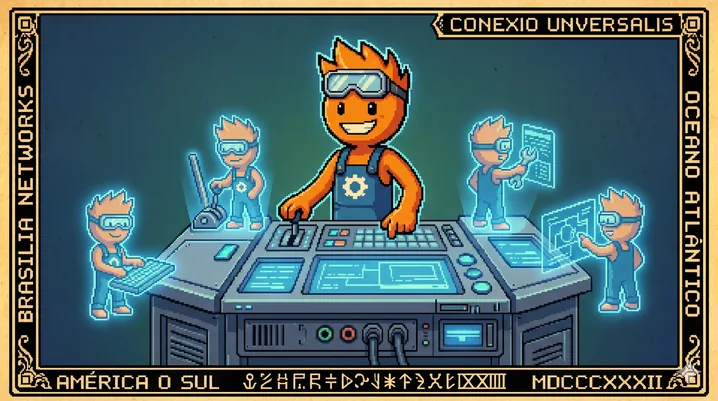
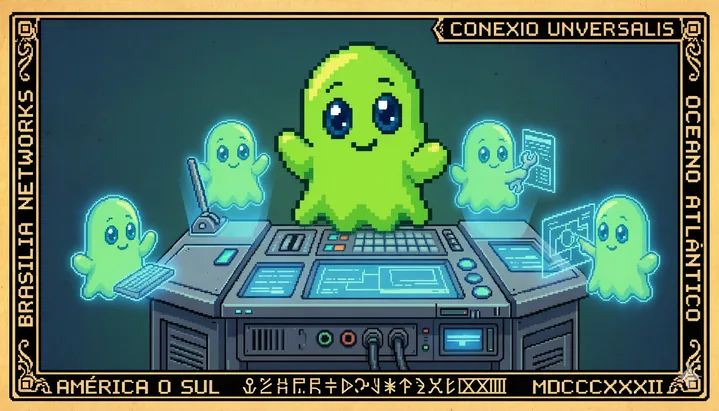
fix: mascote Gaspar no blog, contraste dos diagramas e <hr> do artigo 125
- Atualiza a identidade visual do mascote em .agents/AGENTS.md
- Troca "Professor Mascote" pelo Gaspar em 9 artigos (texto e ilustrações pixel art)
- Escopa a cor do texto de reserva dos diagramas: cartões claros x escuros
- Corrige a <hr> malformada do artigo 125

diff --git a/docs/articles/2027_02_10_article_121.html b/docs/articles/2027_02_10_article_121.html
@@ -123,15 +123,15 @@
 			O cordel acima ilustra a dura realidade das redes de lojas brasileiras que confiam cegamente na estabilidade da nuvem centralizada. Abaixo, analisamos a complexidade técnica e a alternativa da autonomia de borda.
 		</p>
 
-		<!-- SEGUNDA IMAGEM: A cara do Mascote (Professor Técnico) -->
+		<!-- SEGUNDA IMAGEM: Gaspar, o mascote oficial da Cara Core -->
 		<figure class="mascot-intro-frame" style="text-align: center; margin: 2rem 0;">
 			<picture>
 			    <source type="image/webp" media="(max-width: 680px)" srcset="assets/img/2027_02_10_article_121_02_720.webp">
 			    <source type="image/webp" srcset="assets/img/2027_02_10_article_121_02_1600.webp">
-			    <img src="assets/img/2027_02_10_article_121_02.png" alt="Professor Mascote ignorando tempestade de orquestração" class="mascot-avatar" style="max-width: min(180px, 100%); border-radius: 50%; box-shadow: 0 4px 15px rgba(0,0,0,0.15);" />
+			    <img src="assets/img/2027_02_10_article_121_02.png" alt="Gaspar ignorando tempestade de orquestração" class="mascot-avatar" style="max-width: min(180px, 100%); border-radius: 50%; box-shadow: 0 4px 15px rgba(0,0,0,0.15);" />
 			</picture>
 			<figcaption style="font-size: 0.85rem; color: #666; font-style: italic; margin-top: 0.5rem;">
-				Professor Mascote assume o controle: "No mundo físico, distribuições de Kubernetes voltadas para a borda podem consumir mais de 300MB de RAM por nó apenas para manter de pé a infraestrutura de controle local. Uma instância autônoma local não gasta nada e faz o trabalho."
+				Gaspar assume o controle: "No mundo físico, distribuições de Kubernetes voltadas para a borda podem consumir mais de 300MB de RAM por nó apenas para manter de pé a infraestrutura de controle local. Uma instância autônoma local não gasta nada e faz o trabalho."
 			</figcaption>
 		</figure>
 

diff --git a/docs/articles/2027_03_26_article_125.html b/docs/articles/2027_03_26_article_125.html
@@ -119,19 +119,19 @@
 			E o envio da fila depois é com calma gerido.</em>
 		</div>
 
-		<!-- SEGUNDA IMAGEM: A cara do Mascote (Professor Técnico) -->
+		<!-- SEGUNDA IMAGEM: Gaspar, o mascote oficial da Cara Core -->
 		<figure class="mascot-intro-frame" style="text-align: center; margin: 2rem 0;">
 			<picture>
 			    <source type="image/webp" media="(max-width: 680px)" srcset="assets/img/2027_03_26_article_125_02_720.webp">
 			    <source type="image/webp" srcset="assets/img/2027_03_26_article_125_02_1600.webp">
-			    <img src="assets/img/2027_03_26_article_125_02.png" alt="Professor Mascote guardando ticket em cofre offline" class="mascot-avatar" style="max-width: min(180px, 100%); border-radius: 50%; box-shadow: 0 4px 15px rgba(0,0,0,0.15);" />
+			    <img src="assets/img/2027_03_26_article_125_02.png" alt="Gaspar guardando ticket em cofre offline" class="mascot-avatar" style="max-width: min(180px, 100%); border-radius: 50%; box-shadow: 0 4px 15px rgba(0,0,0,0.15);" />
 			</picture>
 			<figcaption style="font-size: 0.85rem; color: #666; font-style: italic; margin-top: 0.5rem;">
-				Professor Mascote assume o controle: "Não tente enviar a venda para a nuvem no fluxo principal do checkout. Grave localmente na tabela de Outbox e use um scheduler com backoff para esvaziar a fila em segundo plano."
+				Gaspar assume o controle: "Não tente enviar a venda para a nuvem no fluxo principal do checkout. Grave localmente na tabela de Outbox e use um scheduler com backoff para esvaziar a fila em segundo plano."
 			</figcaption>
 		</figure>
 
-		<hr style="border: 0; border-top: 1px dashe		<hr style="border: 0; border-top: 1px dashed #ccc; margin: 2rem 0;" />
+		<hr style="border: 0; border-top: 1px dashed #ccc; margin: 2rem 0;" />
 
 		<h2>O que é Transmissão Resiliente?</h2>
 		<p>

diff --git a/docs/articles/2027_05_06_article_128.html b/docs/articles/2027_05_06_article_128.html
@@ -119,15 +119,15 @@
 			E fazem a engrenagem rodar com a força comprovada.</em>
 		</div>
 
-		<!-- SEGUNDA IMAGEM: A cara do Mascote (Professor Técnico) -->
+		<!-- SEGUNDA IMAGEM: Gaspar, o mascote oficial da Cara Core -->
 		<figure class="mascot-intro-frame" style="text-align: center; margin: 2rem 0;">
 			<picture>
 			    <source type="image/webp" media="(max-width: 680px)" srcset="assets/img/2027_05_06_article_128_02_720.webp">
 			    <source type="image/webp" srcset="assets/img/2027_05_06_article_128_02_1600.webp">
-			    <img src="assets/img/2027_05_06_article_128_02.png" alt="Professor Mascote na biblioteca contemplando o horizonte" class="mascot-avatar" style="max-width: min(180px, 100%); border-radius: 50%; box-shadow: 0 4px 15px rgba(0,0,0,0.15);" />
+			    <img src="assets/img/2027_05_06_article_128_02.png" alt="Gaspar na biblioteca contemplando o horizonte" class="mascot-avatar" style="max-width: min(180px, 100%); border-radius: 50%; box-shadow: 0 4px 15px rgba(0,0,0,0.15);" />
 			</picture>
 			<figcaption style="font-size: 0.85rem; color: #666; font-style: italic; margin-top: 0.5rem;">
-				Professor Mascote assume o controle: "A engenharia real de software não é sobre adotar a última biblioteca da moda lançada ontem no Twitter. É sobre combinar com elegância as tecnologias mais simples, maduras e consolidadas há mais de dez anos para resolver problemas de negócios reais."
+				Gaspar assume o controle: "A engenharia real de software não é sobre adotar a última biblioteca da moda lançada ontem no Twitter. É sobre combinar com elegância as tecnologias mais simples, maduras e consolidadas há mais de dez anos para resolver problemas de negócios reais."
 			</figcaption>
 		</figure>
 

diff --git a/docs/articles/2027_02_20_article_122.html b/docs/articles/2027_02_20_article_122.html
@@ -119,15 +119,15 @@
 			E o caixa passa o produto sem travar a maquininha barata.</em>
 		</div>
 
-		<!-- SEGUNDA IMAGEM: A cara do Mascote (Professor Técnico) -->
+		<!-- SEGUNDA IMAGEM: Gaspar, o mascote oficial da Cara Core -->
 		<figure class="mascot-intro-frame" style="text-align: center; margin: 2rem 0;">
 			<picture>
 			    <source type="image/webp" media="(max-width: 680px)" srcset="assets/img/2027_02_20_article_122_02_720.webp">
 			    <source type="image/webp" srcset="assets/img/2027_02_20_article_122_02_1600.webp">
-			    <img src="assets/img/2027_02_20_article_122_02.png" alt="Professor Mascote com picareta protegendo cofre SQLite" class="mascot-avatar" style="max-width: min(180px, 100%); border-radius: 50%; box-shadow: 0 4px 15px rgba(0,0,0,0.15);" />
+			    <img src="assets/img/2027_02_20_article_122_02.png" alt="Gaspar com picareta protegendo cofre SQLite" class="mascot-avatar" style="max-width: min(180px, 100%); border-radius: 50%; box-shadow: 0 4px 15px rgba(0,0,0,0.15);" />
 			</picture>
 			<figcaption style="font-size: 0.85rem; color: #666; font-style: italic; margin-top: 0.5rem;">
-				Professor Mascote assume o controle: "Você não precisa instalar um PostgreSQL inteiro localmente na máquina do caixa só para ter segurança ACID. Um arquivo de banco tunado em WAL faz leituras em microssegundos."
+				Gaspar assume o controle: "Você não precisa instalar um PostgreSQL inteiro localmente na máquina do caixa só para ter segurança ACID. Um arquivo de banco tunado em WAL faz leituras em microssegundos."
 			</figcaption>
 		</figure>
 

diff --git a/docs/articles/2027_03_16_article_124.html b/docs/articles/2027_03_16_article_124.html
@@ -119,15 +119,15 @@
 			E a CPU de dois núcleos trabalha com muito orgulho.</em>
 		</div>
 
-		<!-- SEGUNDA IMAGEM: A cara do Mascote (Professor Técnico) -->
+		<!-- SEGUNDA IMAGEM: Gaspar, o mascote oficial da Cara Core -->
 		<figure class="mascot-intro-frame" style="text-align: center; margin: 2rem 0;">
 			<picture>
 			    <source type="image/webp" media="(max-width: 680px)" srcset="assets/img/2027_03_16_article_124_02_720.webp">
 			    <source type="image/webp" srcset="assets/img/2027_03_16_article_124_02_1600.webp">
-			    <img src="assets/img/2027_03_16_article_124_02.png" alt="Professor Mascote operando console com clones holográficos" class="mascot-avatar" style="max-width: min(180px, 100%); border-radius: 50%; box-shadow: 0 4px 15px rgba(0,0,0,0.15);" />
+			    <img src="assets/img/2027_03_16_article_124_02.png" alt="Gaspar operando console com clones holográficos" class="mascot-avatar" style="max-width: min(180px, 100%); border-radius: 50%; box-shadow: 0 4px 15px rgba(0,0,0,0.15);" />
 			</picture>
 			<figcaption style="font-size: 0.85rem; color: #666; font-style: italic; margin-top: 0.5rem;">
-				Professor Mascote assume o controle: "Não bloqueie a thread principal do caixa esperando a impressora responder via USB. Threads virtuais fazem esse bloqueio virar poeira, sem gastar memória do sistema."
+				Gaspar assume o controle: "Não bloqueie a thread principal do caixa esperando a impressora responder via USB. Threads virtuais fazem esse bloqueio virar poeira, sem gastar memória do sistema."
 			</figcaption>
 		</figure>
 

diff --git a/docs/articles/2027_04_06_article_126.html b/docs/articles/2027_04_06_article_126.html
@@ -119,15 +119,15 @@
 			E a fila de processamento em segundo plano se produz!</em>
 		</div>
 
-		<!-- SEGUNDA IMAGEM: A cara do Mascote (Professor Técnico) -->
+		<!-- SEGUNDA IMAGEM: Gaspar, o mascote oficial da Cara Core -->
 		<figure class="mascot-intro-frame" style="text-align: center; margin: 2rem 0;">
 			<picture>
 			    <source type="image/webp" media="(max-width: 680px)" srcset="assets/img/2027_04_06_article_126_02_720.webp">
 			    <source type="image/webp" srcset="assets/img/2027_04_06_article_126_02_1600.webp">
-			    <img src="assets/img/2027_04_06_article_126_02.png" alt="Professor Mascote como guarda na entrada do portal" class="mascot-avatar" style="max-width: min(180px, 100%); border-radius: 50%; box-shadow: 0 4px 15px rgba(0,0,0,0.15);" />
+			    <img src="assets/img/2027_04_06_article_126_02.png" alt="Gaspar como guarda na entrada do portal" class="mascot-avatar" style="max-width: min(180px, 100%); border-radius: 50%; box-shadow: 0 4px 15px rgba(0,0,0,0.15);" />
 			</picture>
 			<figcaption style="font-size: 0.85rem; color: #666; font-style: italic; margin-top: 0.5rem;">
-				Professor Mascote assume o controle: "Na nuvem central, receba o JSON, grave numa tabela de auditoria rápida e responda 202. Não tente dar baixa em estoque ou rodar relatórios BI na mesma transação HTTP."
+				Gaspar assume o controle: "Na nuvem central, receba o JSON, grave numa tabela de auditoria rápida e responda 202. Não tente dar baixa em estoque ou rodar relatórios BI na mesma transação HTTP."
 			</figcaption>
 		</figure>
 

diff --git a/docs/articles/2027_03_06_article_123.html b/docs/articles/2027_03_06_article_123.html
@@ -119,15 +119,15 @@
 			E o código ficou leve, sem tempero e sem molho.</em>
 		</div>
 
-		<!-- SEGUNDA IMAGEM: A cara do Mascote (Professor Técnico) -->
+		<!-- SEGUNDA IMAGEM: Gaspar, o mascote oficial da Cara Core -->
 		<figure class="mascot-intro-frame" style="text-align: center; margin: 2rem 0;">
 			<picture>
 			    <source type="image/webp" media="(max-width: 680px)" srcset="assets/img/2027_03_06_article_123_02_720.webp">
 			    <source type="image/webp" srcset="assets/img/2027_03_06_article_123_02_1600.webp">
-			    <img src="assets/img/2027_03_06_article_123_02.png" alt="Professor Mascote descartando frameworks JS no lixo" class="mascot-avatar" style="max-width: min(180px, 100%); border-radius: 50%; box-shadow: 0 4px 15px rgba(0,0,0,0.15);" />
+			    <img src="assets/img/2027_03_06_article_123_02.png" alt="Gaspar descartando frameworks JS no lixo" class="mascot-avatar" style="max-width: min(180px, 100%); border-radius: 50%; box-shadow: 0 4px 15px rgba(0,0,0,0.15);" />
 			</picture>
 			<figcaption style="font-size: 0.85rem; color: #666; font-style: italic; margin-top: 0.5rem;">
-				Professor Mascote assume o controle: "Você não precisa de um empacotador de build pesado e dezenas de rotas no cliente apenas para ler itens e somar o subtotal. Use HTML nativo gerado pelo servidor local."
+				Gaspar assume o controle: "Você não precisa de um empacotador de build pesado e dezenas de rotas no cliente apenas para ler itens e somar o subtotal. Use HTML nativo gerado pelo servidor local."
 			</figcaption>
 		</figure>
 

diff --git a/docs/articles/2027_04_16_article_127.html b/docs/articles/2027_04_16_article_127.html
@@ -119,15 +119,15 @@
 			E o suporte age rápido na loja da cidade.</em>
 		</div>
 
-		<!-- SEGUNDA IMAGEM: A cara do Mascote (Professor Técnico) -->
+		<!-- SEGUNDA IMAGEM: Gaspar, o mascote oficial da Cara Core -->
 		<figure class="mascot-intro-frame" style="text-align: center; margin: 2rem 0;">
 			<picture>
 			    <source type="image/webp" media="(max-width: 680px)" srcset="assets/img/2027_04_16_article_127_02_720.webp">
 			    <source type="image/webp" srcset="assets/img/2027_04_16_article_127_02_1600.webp">
-			    <img src="assets/img/2027_04_16_article_127_02.png" alt="Professor Mascote auscultando cabo com estetoscópio" class="mascot-avatar" style="max-width: min(180px, 100%); border-radius: 50%; box-shadow: 0 4px 15px rgba(0,0,0,0.15);" />
+			    <img src="assets/img/2027_04_16_article_127_02.png" alt="Gaspar auscultando cabo com estetoscópio" class="mascot-avatar" style="max-width: min(180px, 100%); border-radius: 50%; box-shadow: 0 4px 15px rgba(0,0,0,0.15);" />
 			</picture>
 			<figcaption style="font-size: 0.85rem; color: #666; font-style: italic; margin-top: 0.5rem;">
-				Professor Mascote assume o controle: "Não tente coletar métricas pesadas a cada segundo. Monitore a saúde do caixa medindo o acúmulo de tarefas na fila do SQLite local: se a fila cresce, a internet caiu."
+				Gaspar assume o controle: "Não tente coletar métricas pesadas a cada segundo. Monitore a saúde do caixa medindo o acúmulo de tarefas na fila do SQLite local: se a fila cresce, a internet caiu."
 			</figcaption>
 		</figure>
 

diff --git a/docs/articles/2027_01_30_article_120.html b/docs/articles/2027_01_30_article_120.html
@@ -123,15 +123,15 @@
 			Esta caricatura lírica reflete um drama real vivido diariamente nos balcões de comércio de todo o país. Abaixo, entramos no detalhe da física operacional do hardware de varejo.
 		</p>
 
-		<!-- SEGUNDA IMAGEM: A cara do Mascote (Professor Técnico) -->
+		<!-- SEGUNDA IMAGEM: Gaspar, o mascote oficial da Cara Core -->
 		<figure class="mascot-intro-frame" style="text-align: center; margin: 2rem 0;">
 			<picture>
 			    <source type="image/webp" media="(max-width: 680px)" srcset="assets/img/2027_01_30_article_120_02_720.webp">
 			    <source type="image/webp" srcset="assets/img/2027_01_30_article_120_02_1600.webp">
-			    <img src="assets/img/2027_01_30_article_120_02.png" alt="Professor Mascote exausto com consumo de RAM" class="mascot-avatar" style="max-width: min(180px, 100%); border-radius: 50%; box-shadow: 0 4px 15px rgba(0,0,0,0.15);" />
+			    <img src="assets/img/2027_01_30_article_120_02.png" alt="Gaspar exausto com consumo de RAM" class="mascot-avatar" style="max-width: min(180px, 100%); border-radius: 50%; box-shadow: 0 4px 15px rgba(0,0,0,0.15);" />
 			</picture>
 			<figcaption style="font-size: 0.85rem; color: #666; font-style: italic; margin-top: 0.5rem;">
-				Professor Mascote assume o controle: "Uma tela bonita que consome 1GB de RAM no caixa não é software, é desperdício corporativo."
+				Gaspar assume o controle: "Uma tela bonita que consome 1GB de RAM no caixa não é software, é desperdício corporativo."
 			</figcaption>
 		</figure>
 

diff --git a/docs/articles/assets/css/articles.css b/docs/articles/assets/css/articles.css
@@ -403,13 +403,17 @@ code:not(pre code)::selection { background: #334155; color: #f8fafc; }
     word-break: break-all !important;
 }
 
-/* Mermaid Fallback Contrast Styling */
+/* Mermaid Fallback Contrast Styling (texto cru enquanto o diagrama não renderiza) */
 .mermaid {
     color: #e2e8f0 !important;
     white-space: pre;
     font-family: 'Fira Mono', 'Consolas', monospace;
     font-size: 0.85rem;
     overflow-x: auto;
+}
+/* Cartões claros: 61 e 63 usam .mermaid-wrap branco; os demais usam fundo #1a1d20 */
+.mermaid-wrap .mermaid {
+    color: #334155 !important;
 }
 
 /* Enforce 16:9 aspect-ratio on all cover images ending with _01.png */

diff --git a/.agents/AGENTS.md b/.agents/AGENTS.md
@@ -26,11 +26,12 @@ Este arquivo serve como o manual de alinhamento e contexto para qualquer Intelig
 O `caracore-retro` é o portal histórico e acervo de artigos estratégicos e técnicos da **Cara Core Informática**. O repositório abriga os textos publicados no LinkedIn, organizados por ano em arquivos HTML individuais em `docs/articles/`. 
 
 ## 🤖 Identidade Visual do Mascote Oficial
-Nosso mascote técnico que conduz os leitores em boxes explicativos deve seguir estritamente o seguinte visual:
-- **Estilo:** Pixel art (estilo retrô 16-bit).
-- **Cores principais:** Laranja (corpo/cabelo espetado) e Azul (macacão/vestimenta).
-- **Detalhes característicos:** Cabelo espetado/arrepiado, sorriso largo e simpático, e uma **engrenagem** estampada no peito do macacão azul.
-- Qualquer prompt de geração de imagem para o mascote deve incorporar esta descrição para manter a consistência da identidade de marca.
+O mascote oficial da Cara Core é o **Gaspar**, do repositório `caracore-mascote`: um fantasminha verde-limão que flutua e conduz os leitores nos boxes explicativos. Nas ilustrações do blog ele aparece em **pixel art retrô 16-bit**, para manter o estilo da série.
+- **Estilo:** pixel art retrô (16-bit), com pixels nítidos e paleta limitada.
+- **Corpo:** fantasminha verde-limão, contorno arredondado, sem pernas e com a base ondulada.
+- **Rosto:** olhos grandes azul-escuros com brilho, sobrancelhas finas e sorriso pequeno e simpático.
+- **Detalhes:** braços curtos e arredondados; no material 3D oficial há brilho suave e leve translucidez.
+- A referência canônica do personagem é `caracore-mascote/assets/gaspar.png`. Qualquer prompt de geração de imagem deve partir dela e adaptar **apenas o estilo** (pixel art), nunca outro personagem ou outra paleta.
 
 ## ✍ Padrões de Formatação e Escrita nos Artigos
 Ao modificar ou criar novos artigos HTML, siga estas diretrizes de formatação:
